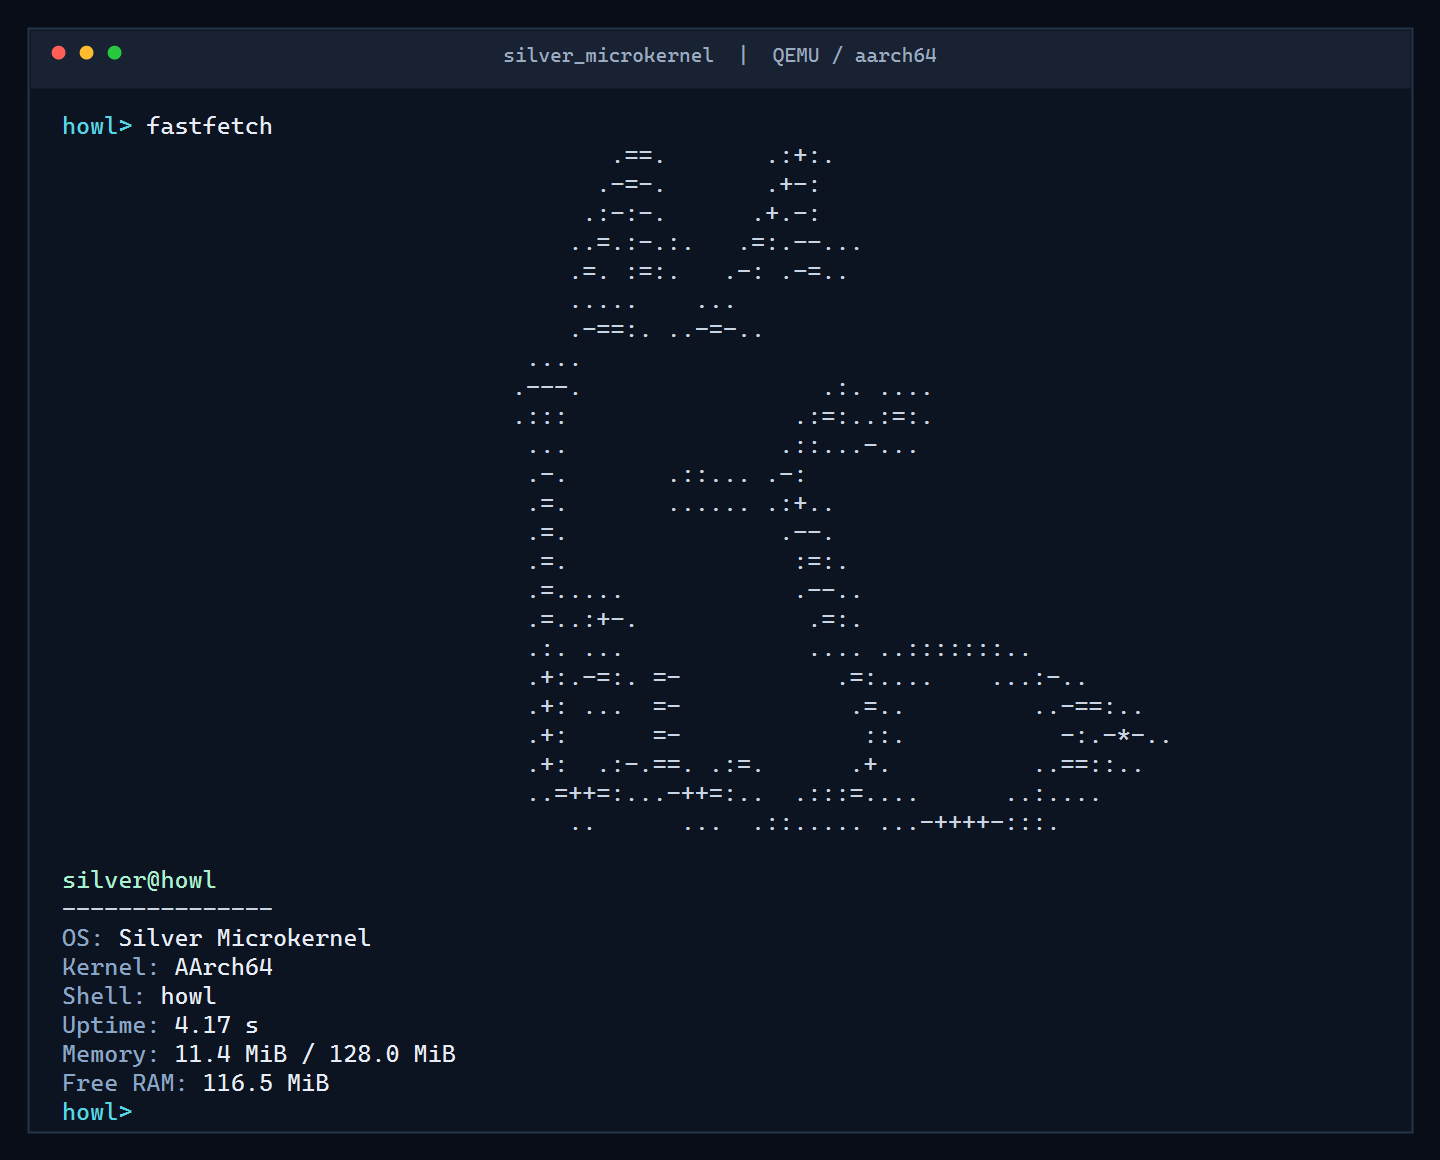
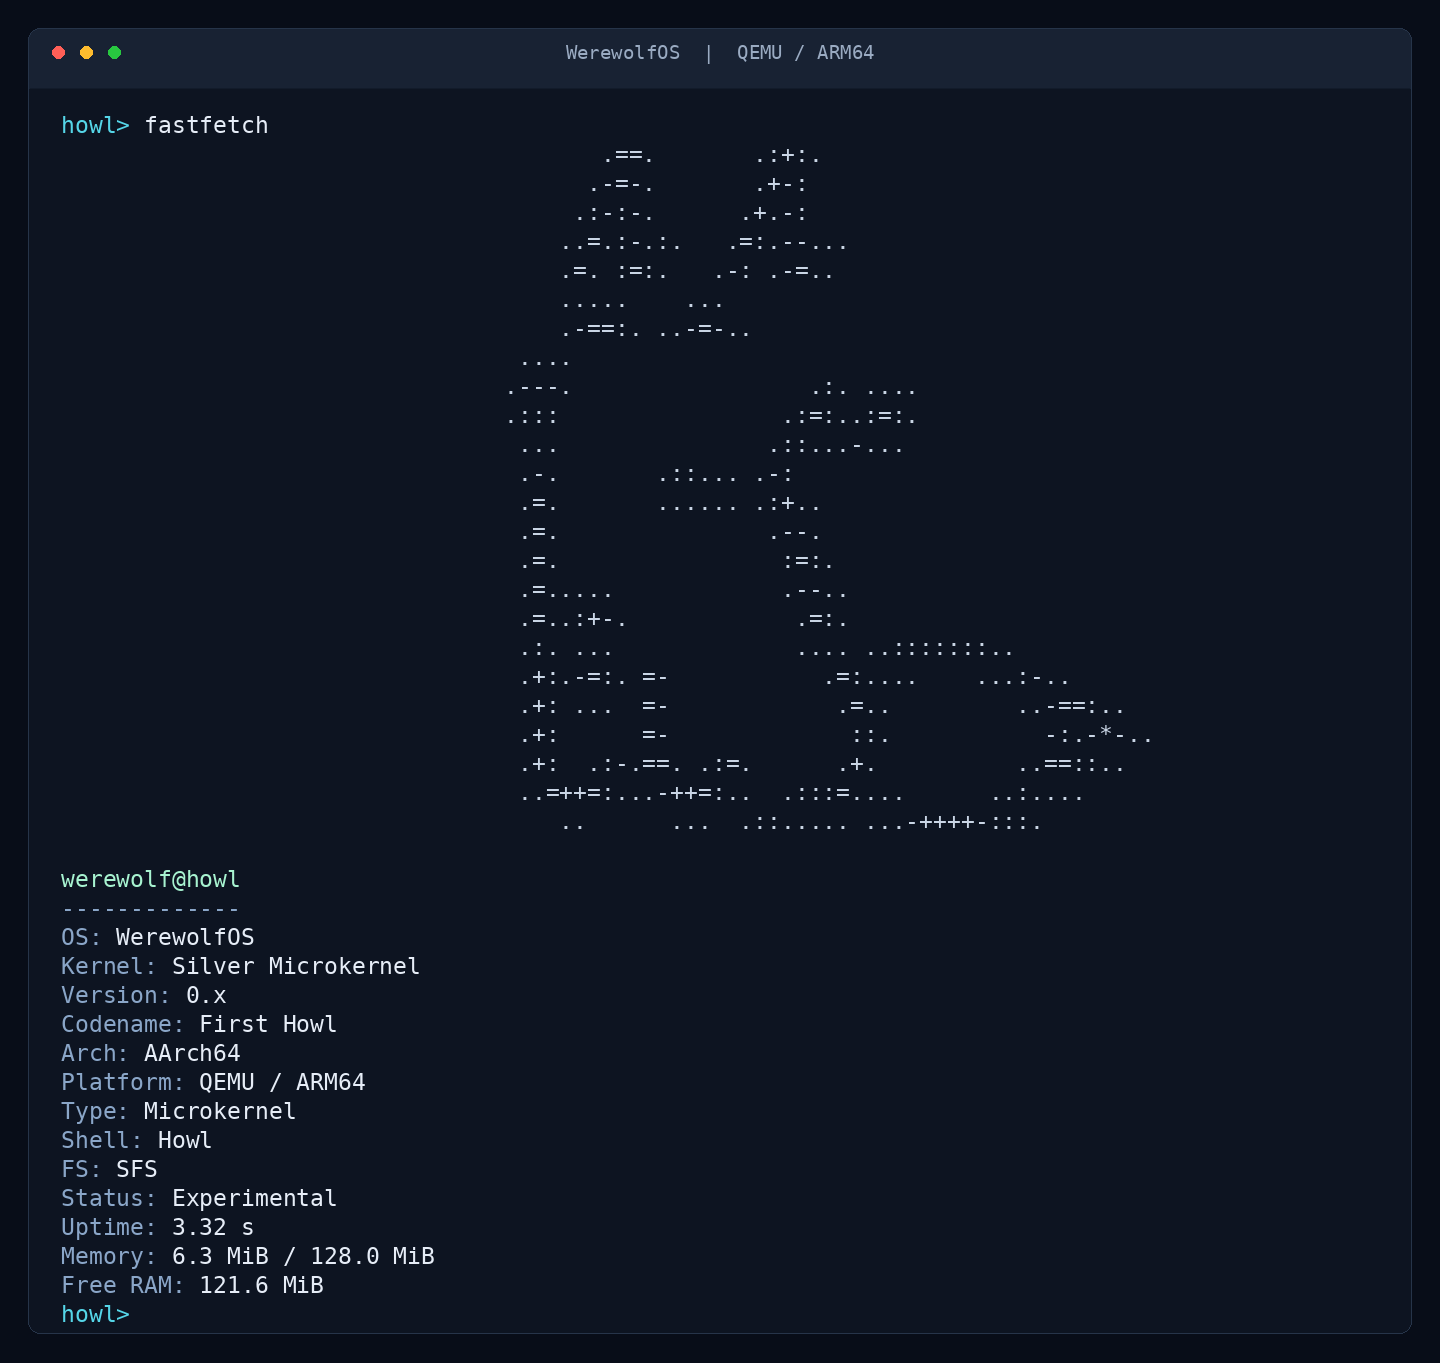
docs: rebrand fastfetch as WerewolfOS and refresh screenshot

diff --git a/userspace/src/bin/silvershell.rs b/userspace/src/bin/silvershell.rs
@@ -1312,11 +1312,18 @@ fn fastfetch() {
 
     print_logo();
     syscall::print("\r\n");
-    field("silver@howl");
-    field("---------------");
-    field("OS: Silver Microkernel");
-    field("Kernel: AArch64");
-    field("Shell: howl");
+    field("werewolf@howl");
+    field("-------------");
+    field("OS: WerewolfOS");
+    field("Kernel: Silver Microkernel");
+    field("Version: 0.x");
+    field("Codename: First Howl");
+    field("Arch: AArch64");
+    field("Platform: QEMU / ARM64");
+    field("Type: Microkernel");
+    field("Shell: Howl");
+    field("FS: SFS");
+    field("Status: Experimental");
 
     syscall::print("Uptime: ");
     print_uptime(uptime);

diff --git a/README.md b/README.md
@@ -9,10 +9,11 @@ Target platform: QEMU `virt` machine (ARM Virt Board), Cortex-A72 CPU.
 
 ## Screenshot
 
-![Silver Microkernel fastfetch](assets/silver-fastfetch.png)
+![WerewolfOS fastfetch](assets/silver-fastfetch.png)
 
-The `fastfetch` screen above is real output from Silver Microkernel running in
-QEMU. The interactive `howl` shell and the `howler` UART driver run in userspace.
+The `fastfetch` screen above is real output from WerewolfOS (Silver Microkernel)
+running in QEMU. The interactive `howl` shell and the `howler` UART driver run in
+userspace.
 
 ## What already works
 
